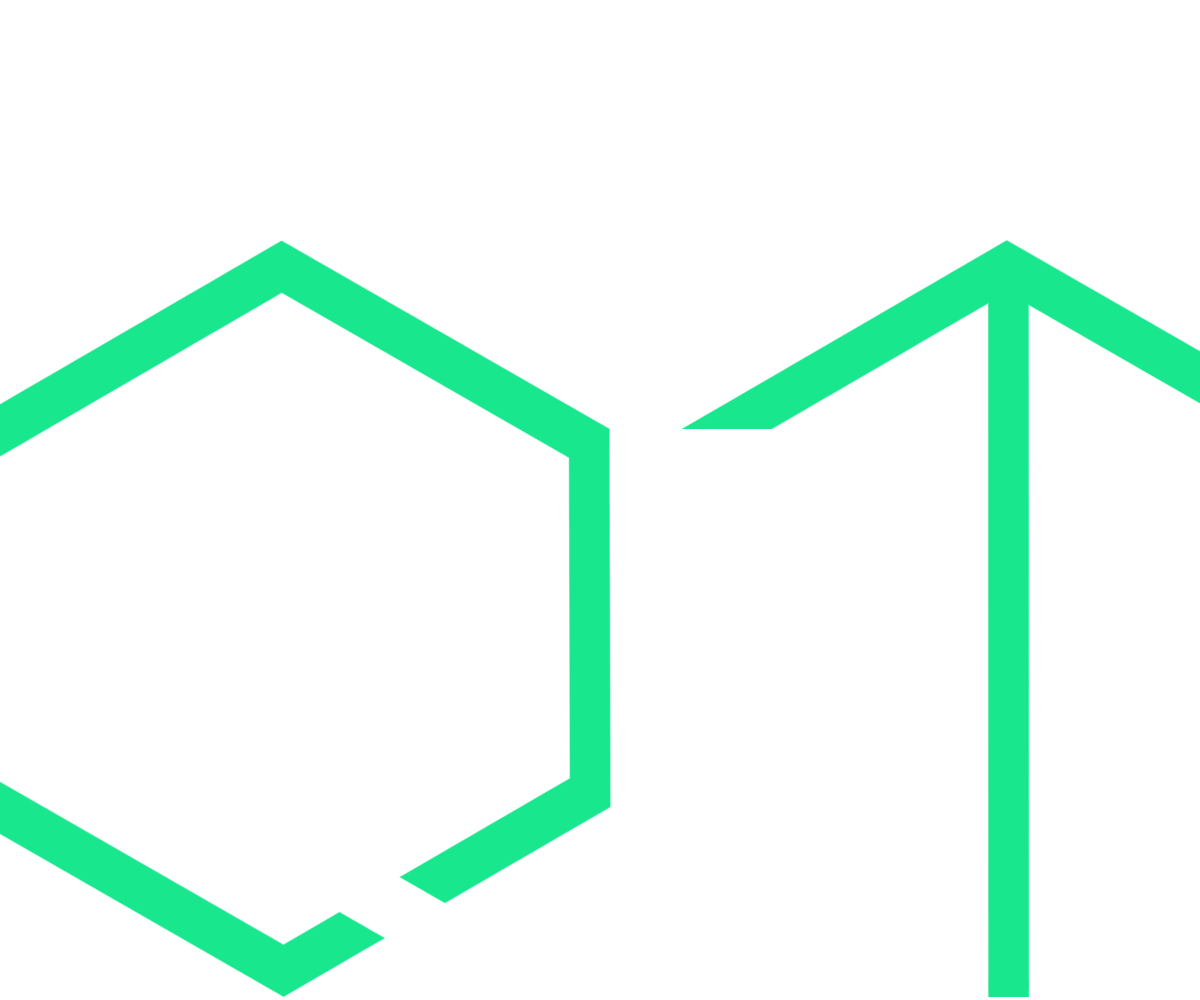
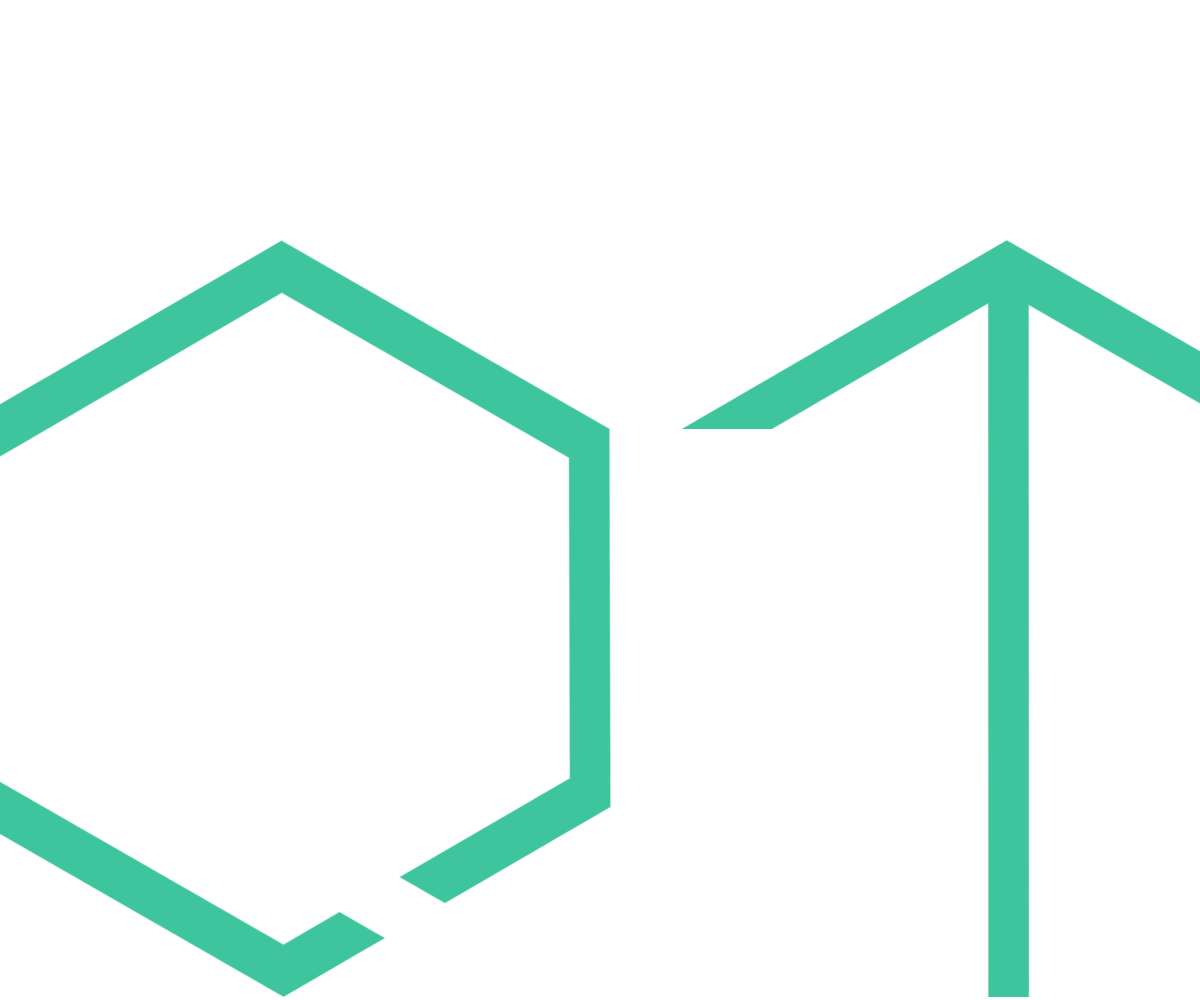
new ui design and colors

Changed region(s): [[0.555, 0.248, 1.0, 1.0], [0.0, 0.248, 0.5242, 0.899], [0.0, 0.775, 0.3392, 1.0]]

diff --git a/quali-t-app/public/app/styles/main.scss b/quali-t-app/public/app/styles/main.scss
@@ -24,7 +24,7 @@ input[disabled], select [disabled] {
   max-width: 1900px !important;
   margin-top: 20px;
   margin-bottom: 20px;
-  background-color: #00BD5B !important;
+  background-color: #46C49F !important;
   padding: 0px;
 
   h1, h2, h3, h4, h5, h6 {
@@ -78,9 +78,13 @@ input[disabled], select [disabled] {
   padding-top: 20px;
   color: #fff;
 
+  .profile {
+    margin-top: 20px;
+  }
+  
   .title {
     color: #fff;
-    font-size: 12px;
+    font-size: 16px;
     text-transform: uppercase;
     & i {
       margin-right: 5px;
@@ -97,12 +101,12 @@ input[disabled], select [disabled] {
       &:hover, &.active {
         background-color: #fff;
         a {
-          color: #00BC5C;
+          color: #0AA17A;
         }
       }
       a {
         color: #fff;
-        font-size: 14px;
+        font-size: 16px;
         background-color: transparent;
       }
     }
@@ -183,14 +187,14 @@ input[disabled], select [disabled] {
   h1, h2, h3, h4, h5 {
     color: #3f3f44;
     &.steps {
-      color: #00EC78;
+      color: #40A989;
     }
   }
 
   h3 {
     font-size: 2em !important;
     &.steps {
-      color: #00EC78;
+      color: #40A989;
       font-size: 1.75em !important;
       margin-top: 50px;
       margin-bottom: 30px;
@@ -396,7 +400,7 @@ body {
   }
 
   .auth-form-heading {
-    color: #00E789;
+    color: #40A989;
     text-align: center;
     margin-bottom: 30px;
   }
@@ -454,7 +458,7 @@ body {
 
 .popover {
   i {
-    color: #00E980;
+    color: #60DEAB;
   }
 }
 
@@ -534,7 +538,7 @@ div[text-angular-toolbar] {
     min-height: 50px;
   }
   &.selected {
-    background-color: #94F9CE;
+    background-color: #8EFFDB;
     .fa-check {
       display: block;
     }
@@ -562,7 +566,7 @@ div[text-angular-toolbar] {
   .fa-check {
     margin-top: 30px;
     font-size: 22px;
-    color: #00893B;
+    color: #008E67;
     display: none;
   }
   select {
@@ -794,21 +798,21 @@ div[text-angular-toolbar] {
 
 .help-container {
   h4 {
-    color: #00BF56;
+    color: #40A989;
     margin-top: 30px;
   }
   .question {
     padding-left: 30px;
     padding-top: 20px;
     padding-bottom: 30px;
-    border-left: #00BF56 5px solid;
+    border-left: #3CE1A8 5px solid;
     margin-top: 30px;
     margin-bottom: 5px;
   }
   .answer {
     background-color: rgba(218, 234, 228, 0.0980392);
     padding: 30px;
-    border-left: 5px solid rgb(0, 236, 140);
+    border-left: 5px solid #00C69D;
   }
 }
 

diff --git a/quali-t-app/public/app/styles/bootswatch/yeti/_variables.scss b/quali-t-app/public/app/styles/bootswatch/yeti/_variables.scss
@@ -13,8 +13,8 @@ $gray-dark:              lighten($gray, 20%) !default;   // #333
 $gray-light:             lighten($gray, 60%) !default;   // #999
 $gray-lighter:           lighten($gray, 93.5%) !default; // #eee
 
-$brand-primary:         #00E784 !default;
-$brand-success:         #43ac6a !default;
+$brand-primary:         #45C49F !default;
+$brand-success:         #40A989 !default;
 $brand-info:            #5bc0de !default;
 $brand-warning:         #fcf8e3 !default;
 $brand-danger:          #F04124 !default;
@@ -25,7 +25,7 @@ $brand-danger:          #F04124 !default;
 //## Settings for some of the most global styles.
 
 //** Background color for `<body>`.
-$body-bg:               #00EA8F !default;
+$body-bg:               #66DDAC !default;
 //** Global text color on `<body>`.
 $text-color:            $gray-darker !default;
 

diff --git a/quali-t-app/public/app/styles/extra-styles/home.scss b/quali-t-app/public/app/styles/extra-styles/home.scss
@@ -2,8 +2,8 @@ body, html {
   width: 100%;
   height: 100%;
   background-color: #fff !important;
+  font-family: "Roboto", sans-serif;
 }
-
 
 body,
 h1,
@@ -12,7 +12,7 @@ h3,
 h4,
 h5,
 h6 {
-  font-weight: 700;
+  font-weight: initial;
 }
 
 .lead {
@@ -38,11 +38,10 @@ h6 {
 }
 
 .intro-message > h1 {
-  margin: 0;
+  margin: 0px;
   text-shadow: 2px 2px 3px rgba(0, 0, 0, 0.6);
-  font-size: 5em;
-  color: #fff;
-
+  font-size: 9em;
+  color: #FFF;font-weight: 200;
 }
 
 .intro-divider {
@@ -55,8 +54,9 @@ h6 {
 
 .intro-message > h3 {
   text-shadow: 2px 2px 3px rgba(0, 0, 0, 0.6);
-  color: #fff;
-
+  color: #FFF;
+  font-weight: 100;
+  font-size: 4em !important;
 }
 
 .about-qualit-templates > h2, .about-qualit-evaluate > h2 {

diff --git a/quali-t-app/public/app/views/home/welcome.html b/quali-t-app/public/app/views/home/welcome.html
@@ -9,7 +9,6 @@
       <div class="col-lg-12">
         <div class="intro-message">
           <h1>QUALI-T</h1>
-
           <h3>Make your software better from the beginning.</h3>
           <hr class="intro-divider">
           <ul class="list-inline intro-social-buttons">

diff --git a/quali-t-app/public/app/styles/extra-styles/auth.scss b/quali-t-app/public/app/styles/extra-styles/auth.scss
@@ -1,5 +1,5 @@
 body {
-  background-color: #03DB7F;
+  background-color: #60DEAB;
   background-image: url("../../images/login-background.png");
   background-repeat: no-repeat;
   background-size: cover;
